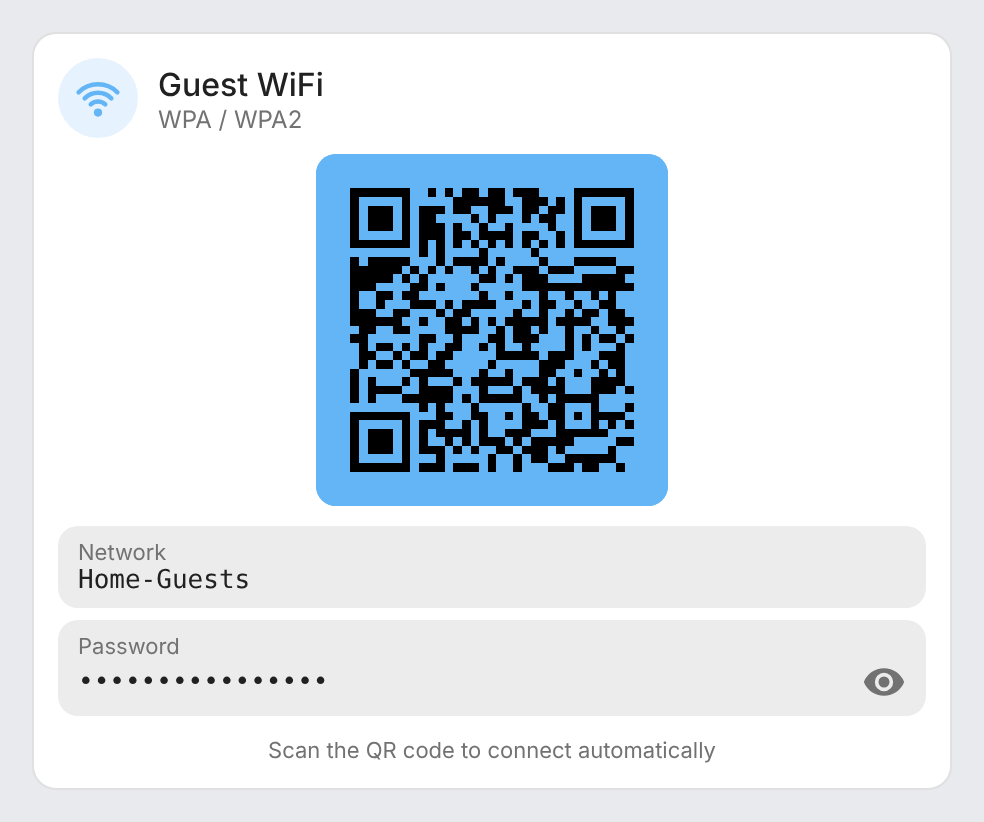
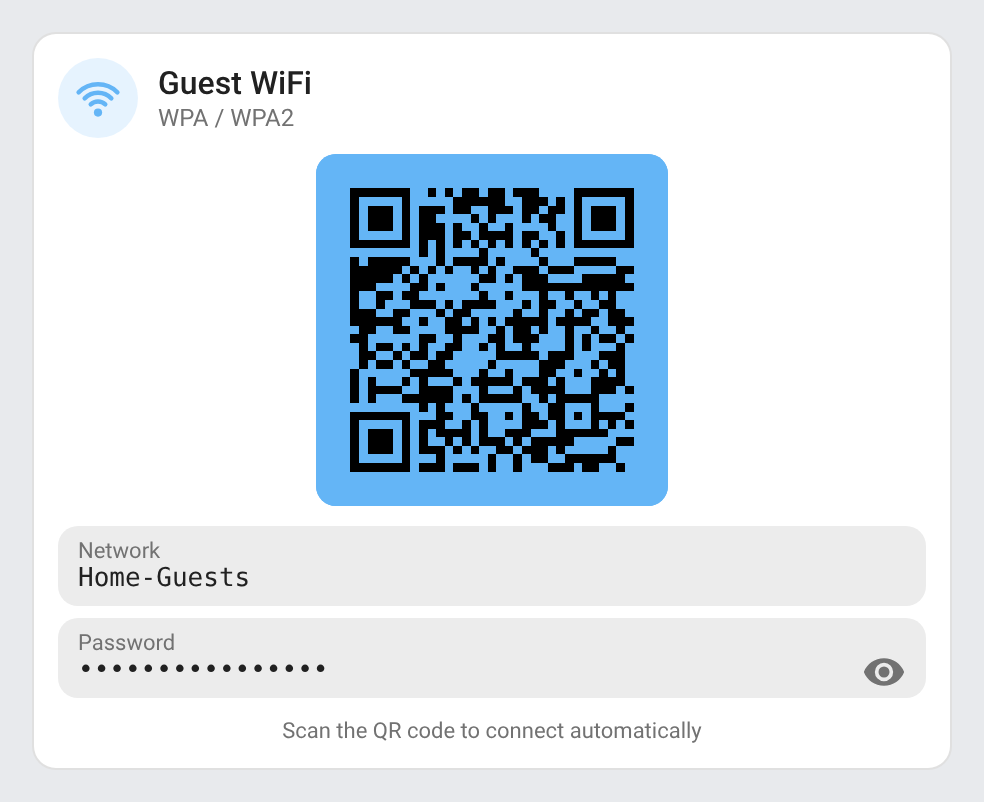
Review pass 8 fixes + release 1.10.2 (#26)
Review pass 8 fixes for **ha-wifi-card**, release **1.10.2** (from
`main` @ 15c1ec4, v1.10.1).

## Fixes

### Editor: YAML `security` aliases showed an empty « Security » field
(⚪)
- **Bug**: the card accepts `wpa`, `wpa2`, `wpa3`, `sae`, `none`,
`open`, any case (`SECURITY_ALIASES`), but the editor passed the raw
value to `ha-form`, whose select only knows `WPA`, `SAE`, `WEP`,
`nopass` → empty field although the card works.
- **Fix**: `_render` now shows `wifiQrEditorSecurity(data.security)`
(the canonical option, or the raw value when the card would reject it,
so a typo is not masked). The config itself is not rewritten until the
user changes something; the next `value-changed` then saves the
canonical value (and drops `WPA` as default).
- **Tests** (failed before the fix, pass after): `editor: a YAML
security alias is shown as the matching select option`, `editor: no
security shows WPA, an unknown value is shown as written` (edge cases:
empty string, unknown value), `editor: editing another field after a
YAML alias saves a valid security` (alias `wpa3` + title edit → `SAE`,
password kept).

### « Password » row taller than « Network » (⚪)
- **Bug**: the eye `<button>` (22 px `ha-icon`) made `.pwd-row` taller
than the value line.
- **Fix**: `button { margin: -4px 0; }` — the icon overlaps the 6 px row
padding instead of growing the row. Open networks (no button) and long
wrapped passwords are unchanged.
- **Test**: not testable in the repo's unit tests (no browser test
[…]

diff --git a/src/wifi-card.js b/src/wifi-card.js
@@ -135,6 +135,16 @@ function wifiQrSecurity(value) {
   return sec;
 }
 
+// For the editor: the select option matching what the card does, or the value as written
+// when the card would reject it (so the error stays visible instead of being masked).
+function wifiQrEditorSecurity(value) {
+  try {
+    return wifiQrSecurity(value);
+  } catch (_err) {
+    return value;
+  }
+}
+
 // Escapes the characters reserved by the WIFI: format (backslash, ; , : and ").
 function wifiQrField(s) {
   return String(s).replace(/([\\;,:"])/g, '\\$1');
@@ -286,7 +296,8 @@ class WifiQrCard extends HTMLElement {
         .lbl { font-size: 11px; color: var(--secondary-text-color); margin-bottom: 0; }
         .val { font-size: 13px; font-weight: 500; font-family: var(--code-font-family, monospace); word-break: break-all; color: var(--primary-text-color); }
         .pwd-row { display: flex; align-items: center; justify-content: space-between; gap: 8px; }
-        button { background: none; border: none; cursor: pointer; padding: 0; display: flex; align-items: center; }
+        /* Negative margin: the 22 px eye icon overlaps the row padding instead of making the Password row taller than the Network row. */
+        button { background: none; border: none; cursor: pointer; padding: 0; margin: -4px 0; display: flex; align-items: center; }
         .hint { font-size: 11px; color: var(--secondary-text-color); text-align: center; }
       </style>
       <ha-card>
@@ -450,7 +461,11 @@ class WifiQrCardEditor extends HTMLElement {
       return txt === key ? undefined : txt;
     };
     // Show the defaults as set, so the fields match what the card does.
-    this._form.data = Object.assign({}, WIFI_QR_EDITOR_DEFAULTS, this._config);
+    // YAML aliases (wpa2, wpa3, none, open…) are shown as the matching option; the config itself
+    // is only rewritten once the user changes something.
+    var data = Object.assign({}, WIFI_QR_EDITOR_DEFAULTS, this._config);
+    data.security = wifiQrEditorSecurity(data.security);
+    this._form.data = data;
   }
 
   _valueChanged(ev) {

diff --git a/CHANGELOG.md b/CHANGELOG.md
@@ -1,5 +1,16 @@
 # Changelog
 
+## 1.10.2 - 2026-10-29
+
+### Fixes
+- Visual editor: a `security` written in YAML with an alias the card accepts (`wpa2`, `wpa3`, `none`, `open`, lower case…) now shows the matching option in the « Security » field instead of an empty select. The configuration is only rewritten (to `WPA`, `SAE`, `WEP` or `nopass`) once you change something in the editor.
+- The « Password » row is now the same height as the « Network » row: the eye button no longer makes it taller.
+
+### Maintenance
+- Biome 2.6.3 everywhere: the pre-commit hook, `biome.json` and the Lint workflow, which now reads the version from `.pre-commit-config.yaml` (and checks `biome.json` matches) instead of hard-coding it.
+- Dependabot no longer bumps `playwright`, kept on the version shared by the ha-* repos.
+- Screenshots updated.
+
 ## 1.10.1 - 2026-10-29
 
 ### Fixes
